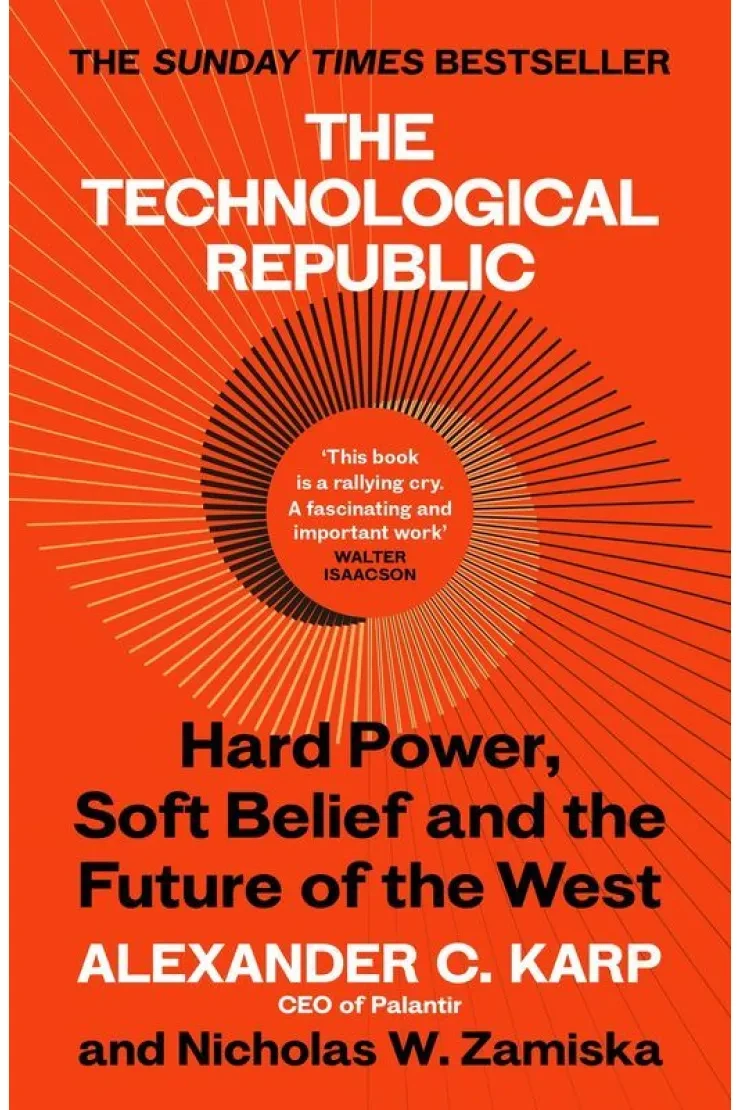
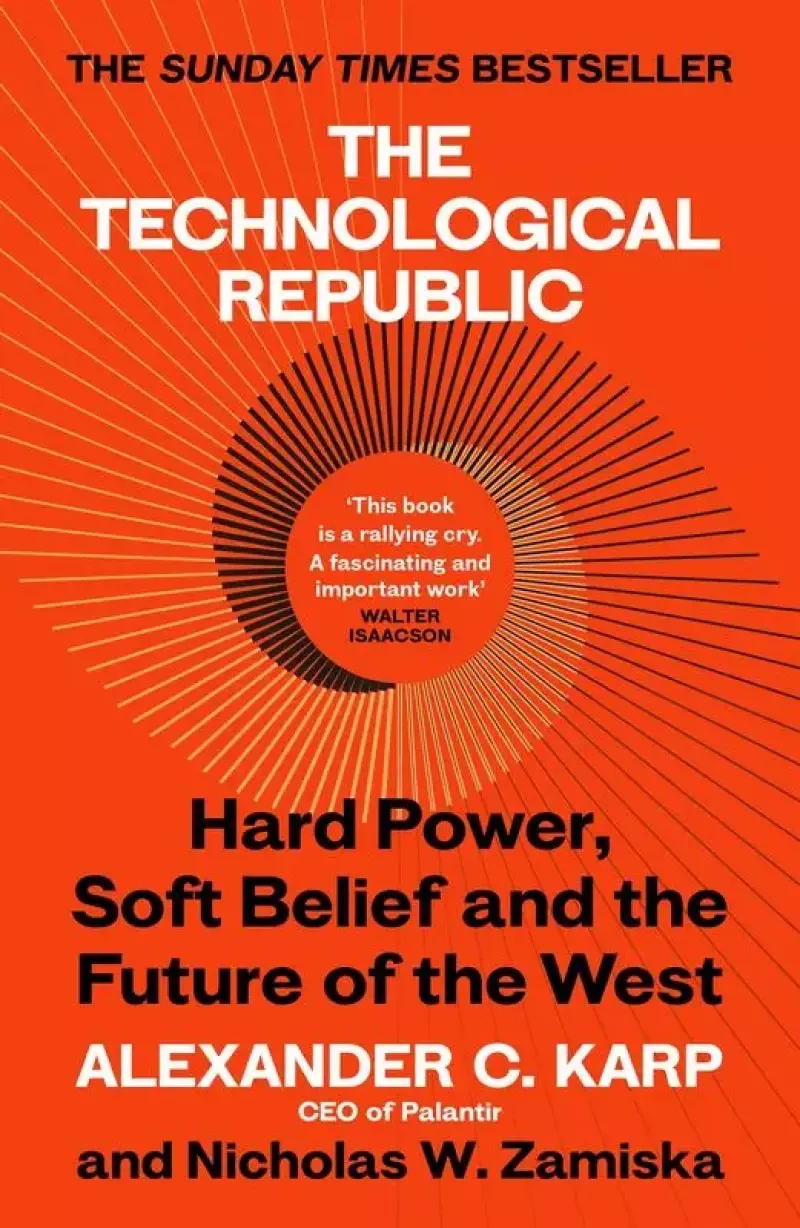
Update reading list: statuses, cover, and AI Ethics
Mark Underground Empire as finished and The Technological Republic as
Deciphering, replace that cover, and add AI Ethics by Mark Coeckelbergh.

Changed region(s): [[0.0, 0.0, 1.0, 1.0], [0.5284, 0.0306, 0.9324, 0.0919], [0.5284, 0.7045, 0.5595, 0.7351]]

diff --git a/index.html b/index.html
@@ -471,7 +471,7 @@
         <div class="books-grid">
           <article class="book-card">
             <img class="book-cover" src="assets/Book_technological_republic_cover.webp" alt="The Technological Republic book cover">
-            <span class="badge" style="background: var(--claude-orange); font-size: 0.7rem;">Reading now</span>
+            <span class="badge" style="background: var(--claude-orange); font-size: 0.7rem;">Deciphering...</span>
             <h3 class="book-title">The Technological Republic: Hard Power, Soft Belief and the Future of the West</h3>
             <p class="book-author">by Alexander C. Karp &amp; Nicholas W. Zamiska</p>
             <p class="book-note">
@@ -490,7 +490,6 @@
 
           <article class="book-card">
             <img class="book-cover" src="assets/book-underground-empire.avif" alt="Underground Empire book cover">
-            <span class="badge" style="background: var(--claude-orange); font-size: 0.7rem;">Deciphering...</span>
             <h3 class="book-title">Underground Empire: How America Weaponized the World Economy</h3>
             <p class="book-author">by Henry Farrell &amp; Abraham Newman</p>
             <p class="book-note">
@@ -569,6 +568,15 @@
             <p class="book-author">by Dariusz Jemielniak &amp; Aleksandra Przegalińska</p>
             <p class="book-note">
               A broad look at how people come together in cyberspace to create shared products, the challenges they face along the way, and the impostors who pose as part of the sharing economy.
+            </p>
+          </article>
+
+          <article class="book-card">
+            <img class="book-cover" src="assets/Book_Ai_ethics.png" alt="AI Ethics book cover">
+            <h3 class="book-title">AI Ethics</h3>
+            <p class="book-author">by Mark Coeckelbergh</p>
+            <p class="book-note">
+              Very influential to me back then, shaping my vision of AI ethics. It nicely combined questions of technology, society, and human nature.
             </p>
           </article>
         </div><!-- end books-grid -->
